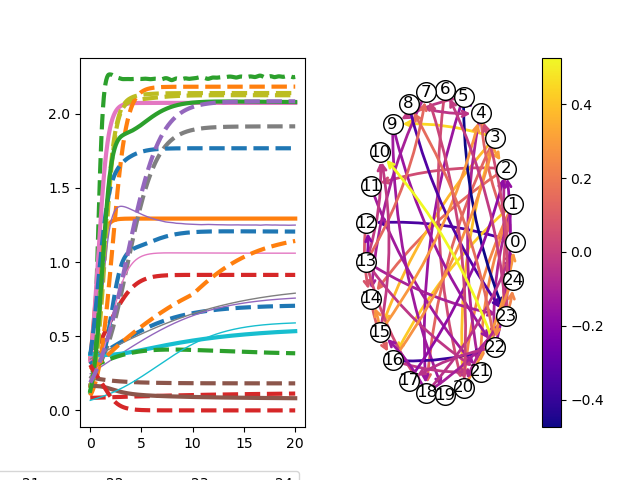
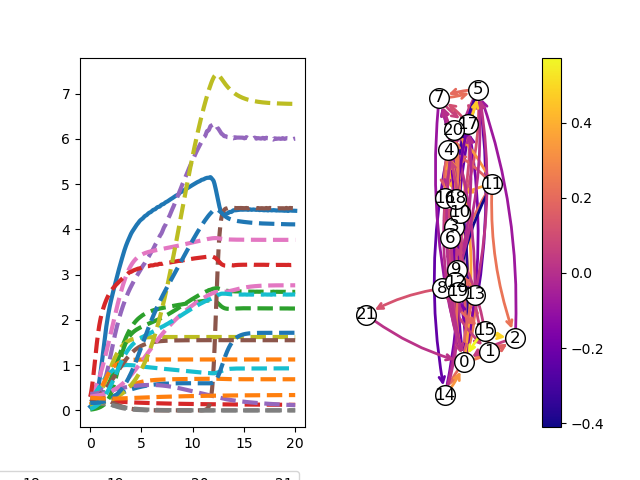
Single intervention.py
Added bespoke factor order for plotting the PA dynamics

diff --git a/single_intervention_PA.py b/single_intervention_PA.py
@@ -505,6 +505,8 @@ if use_emp_network==1:
         
         no_factors=len(interactions_include[:,0])
         
+        factor_order=np.arange(no_factors)
+        
 print("no_factors = ",no_factors)
         
 print("Interactions to include")
